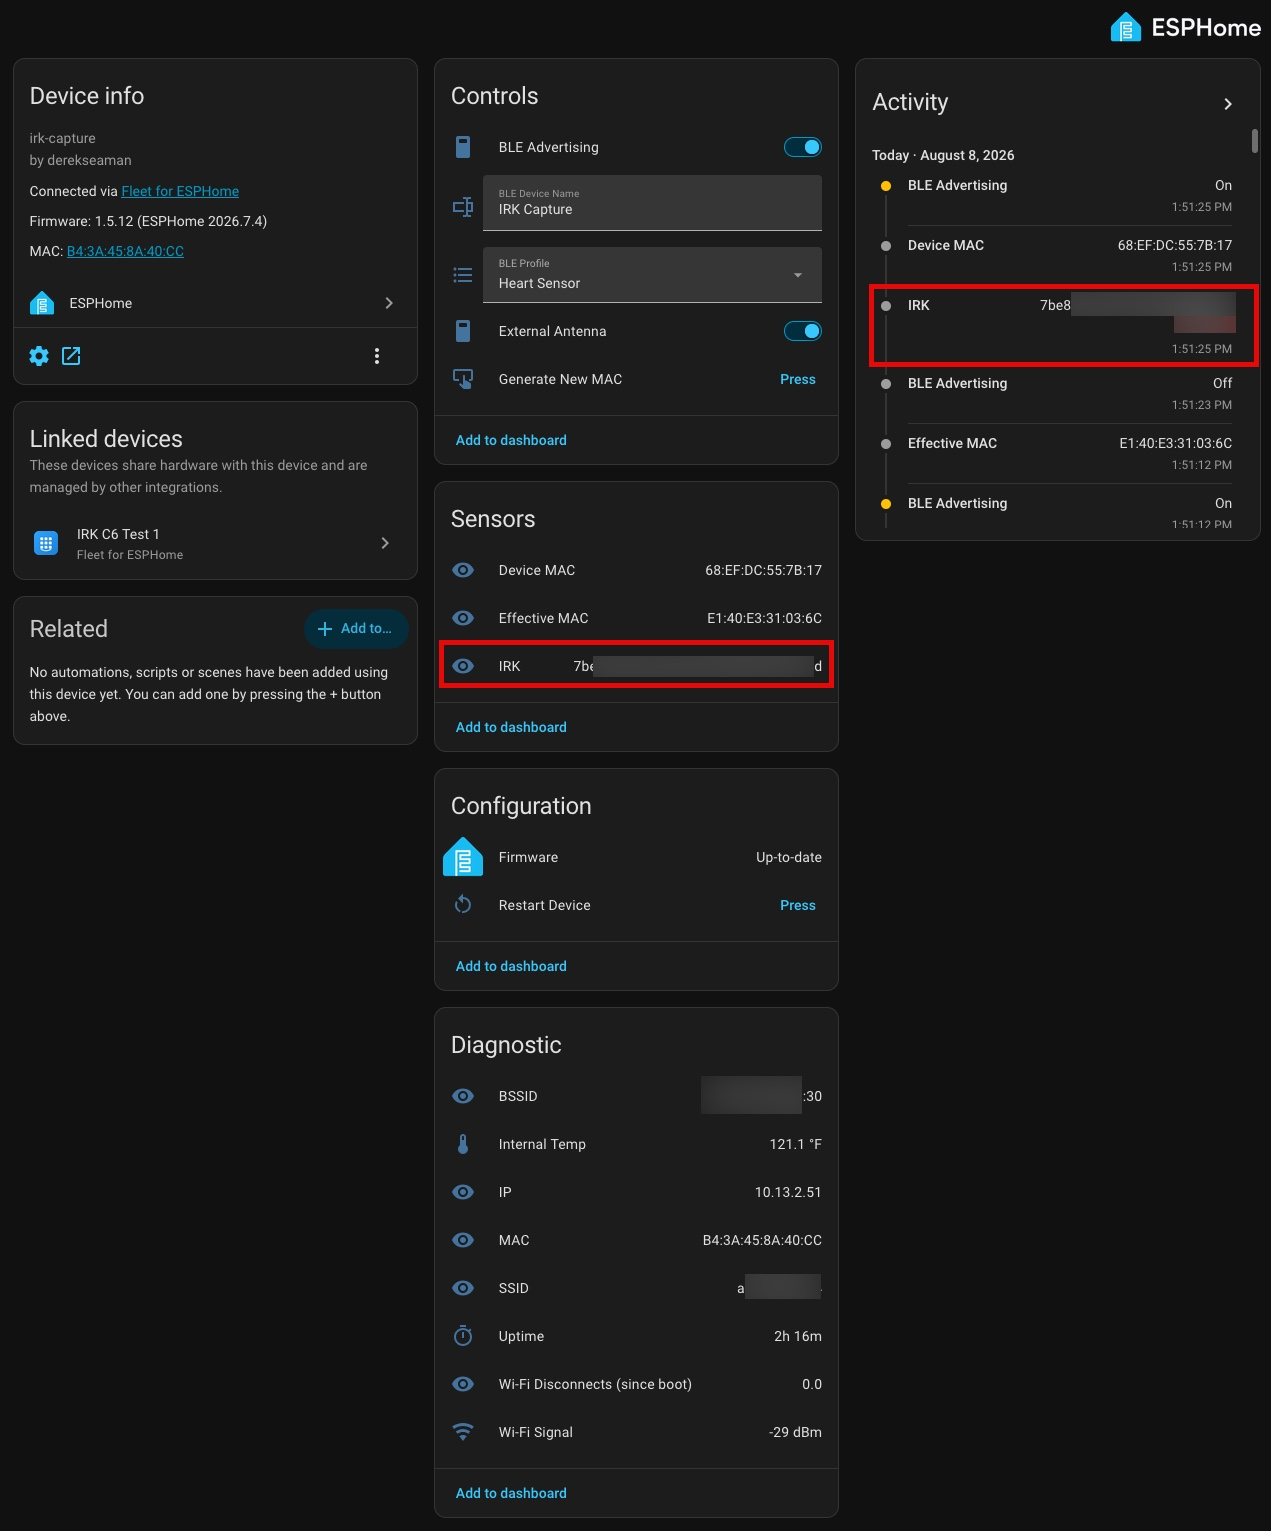
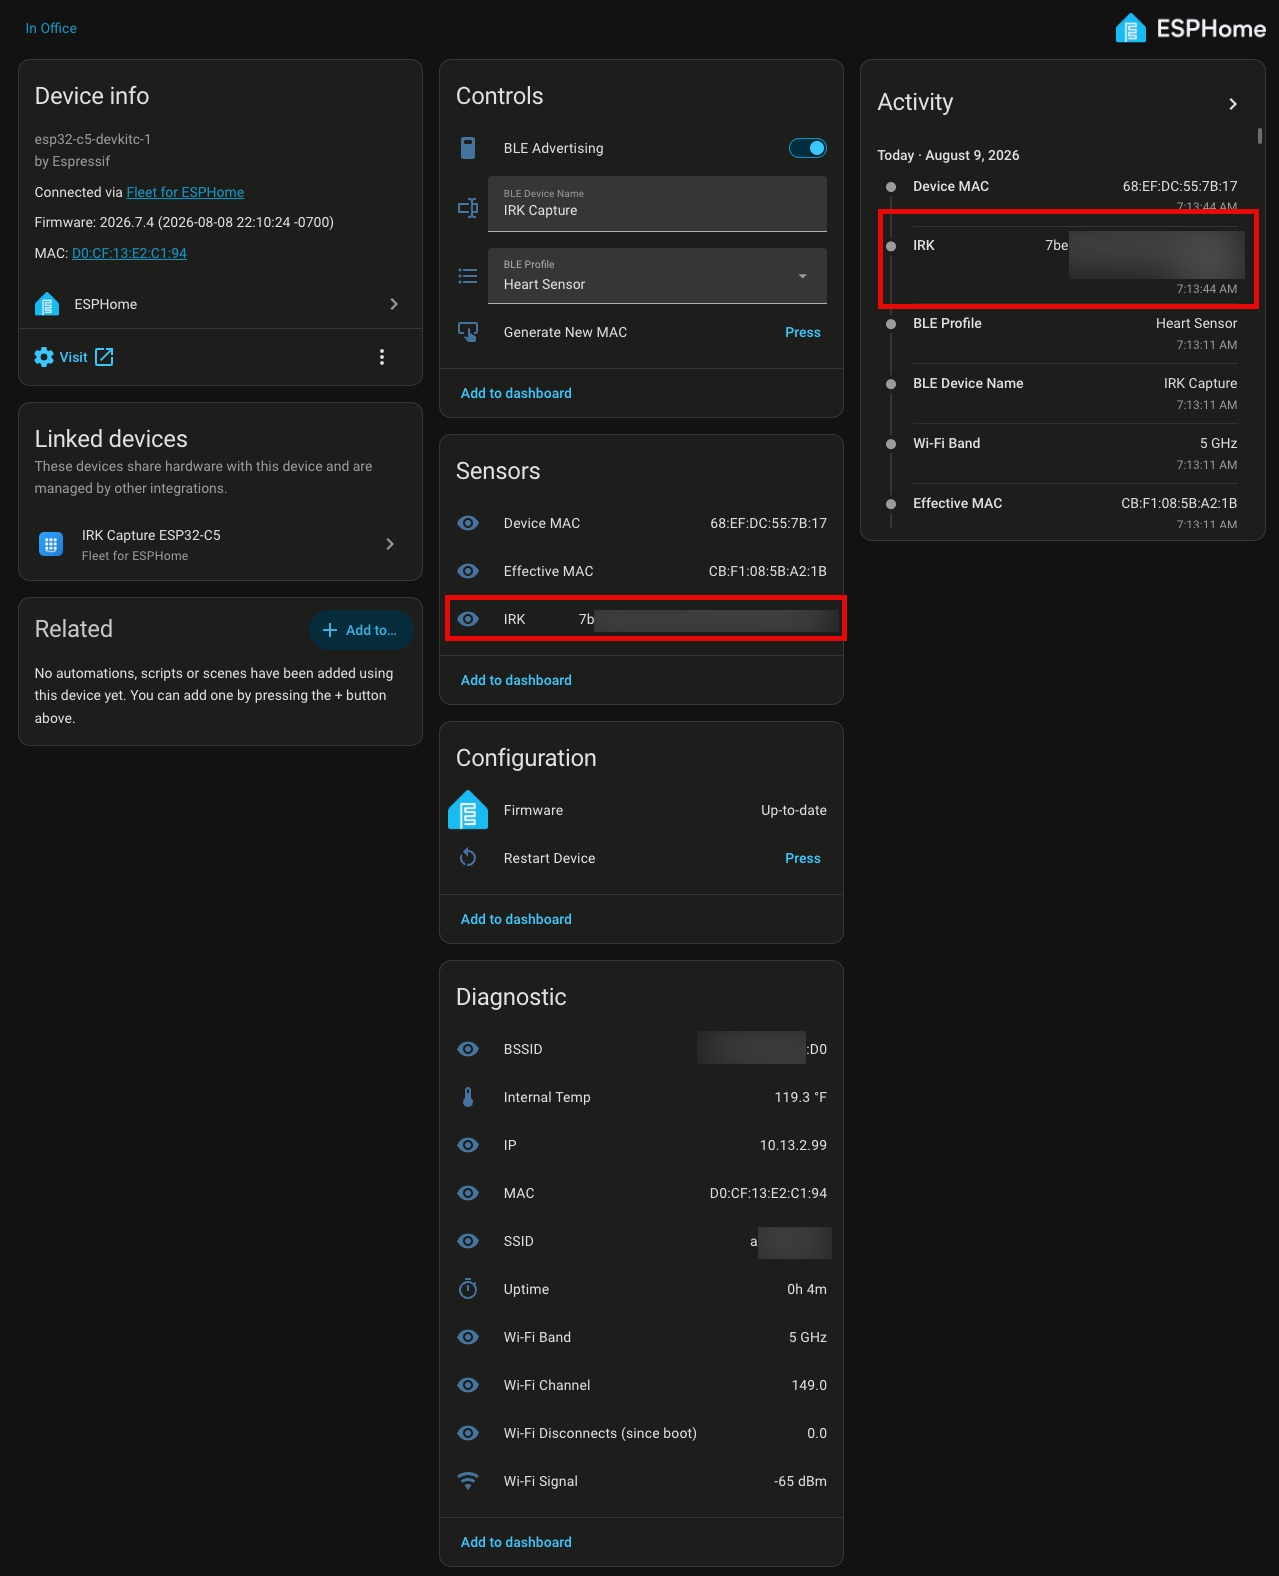
Prepare v1.6.1 release
Revert the temporary dev refs back to main in both the base package's
external_components and the device-remote packages entry. Add the v1.6.1
release notes (removing the v1.6.0 notes) and refresh the dashboard
screenshot.

diff --git a/RELEASE_NOTES_v1.6.1.md b/RELEASE_NOTES_v1.6.1.md
@@ -1,0 +1,46 @@
+# Release Notes v1.6.1
+
+This release covers the changes from `v1.6.0` to `v1.6.1`.
+
+Capturing Bluetooth IRKs can be finicky — every phone, watch, and OS version
+behaves a little differently, and small timing quirks can make a capture fail
+for no obvious reason. This release is all about reliability: making pairing and
+capture "just work" more often, and smoothing out a few rough edges along the
+way.
+
+## More dependable pairing and capture
+
+The biggest focus this release is making captures succeed more consistently:
+
+- **Re-pairing works cleanly.** If you previously removed the IRK Capture device
+  from your phone or watch's Bluetooth settings and want to capture again, it now
+  pairs fresh and grabs the key as expected — no reboot gymnastics needed.
+- **Smarter about showing keys.** The IRK sensor no longer fills up with
+  duplicate entries when a device quietly reconnects in the background, but it
+  *will* update if a device's key genuinely changes, and it always shows the key
+  right after a successful pairing.
+- **Gentler on chatty devices.** Some phones reconnect over and over on their
+  own. Instead of reacting to every reconnect, the device now briefly pauses to
+  break the loop and lets you know in the logs.
+- **Steadier overall.** A lot of behind-the-scenes robustness work makes the
+  whole pairing process more stable across the wide range of devices out there.
+
+## The "BLE Advertising" switch behaves the way you'd expect
+
+The switch now works as a lasting on/off setting. It stays on between captures
+(pausing only for the moment a device is actively connecting) and, when you turn
+it off, it stays off until you turn it back on.
+
+## Home Assistant shows a meaningful version
+
+The device previously could display an out-of-date firmware version in Home
+Assistant. It now reports the actual ESPHome version it was built with, so what
+you see always reflects reality.
+
+## Easier troubleshooting
+
+- The device now logs its Wi-Fi MAC address right at startup. If it ever has
+  trouble joining your network, this makes it much easier to spot problems like a
+  router that's filtering or blocking the device.
+- Logs are cleaner and quieter during normal use, so the messages that matter
+  are easier to find.
